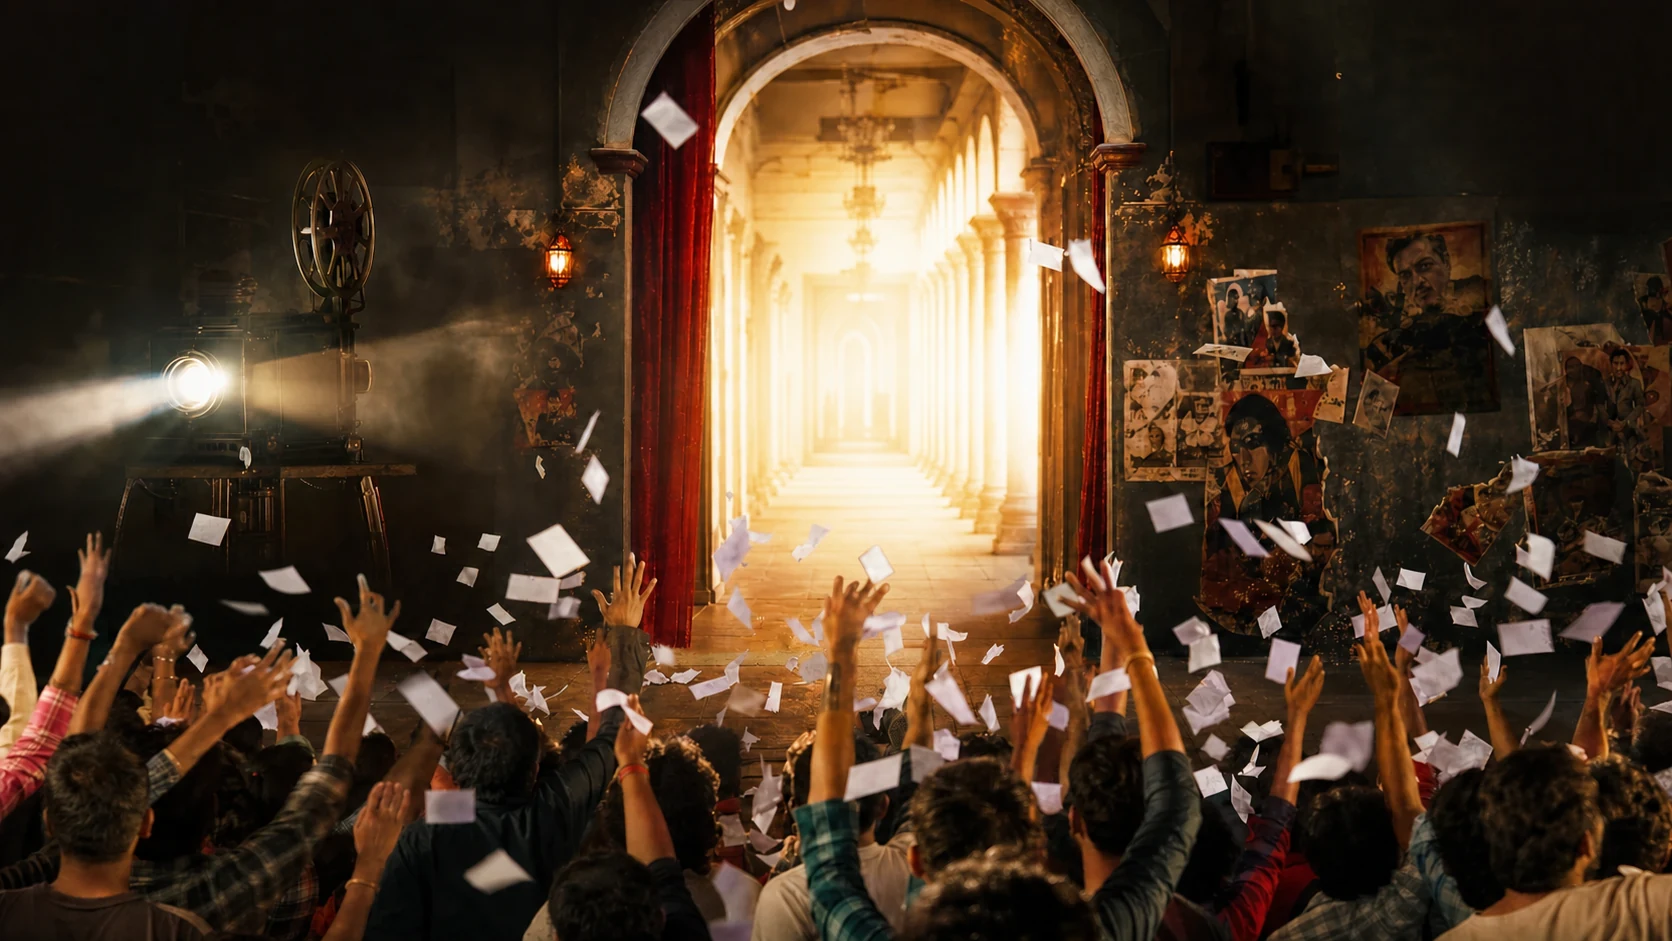
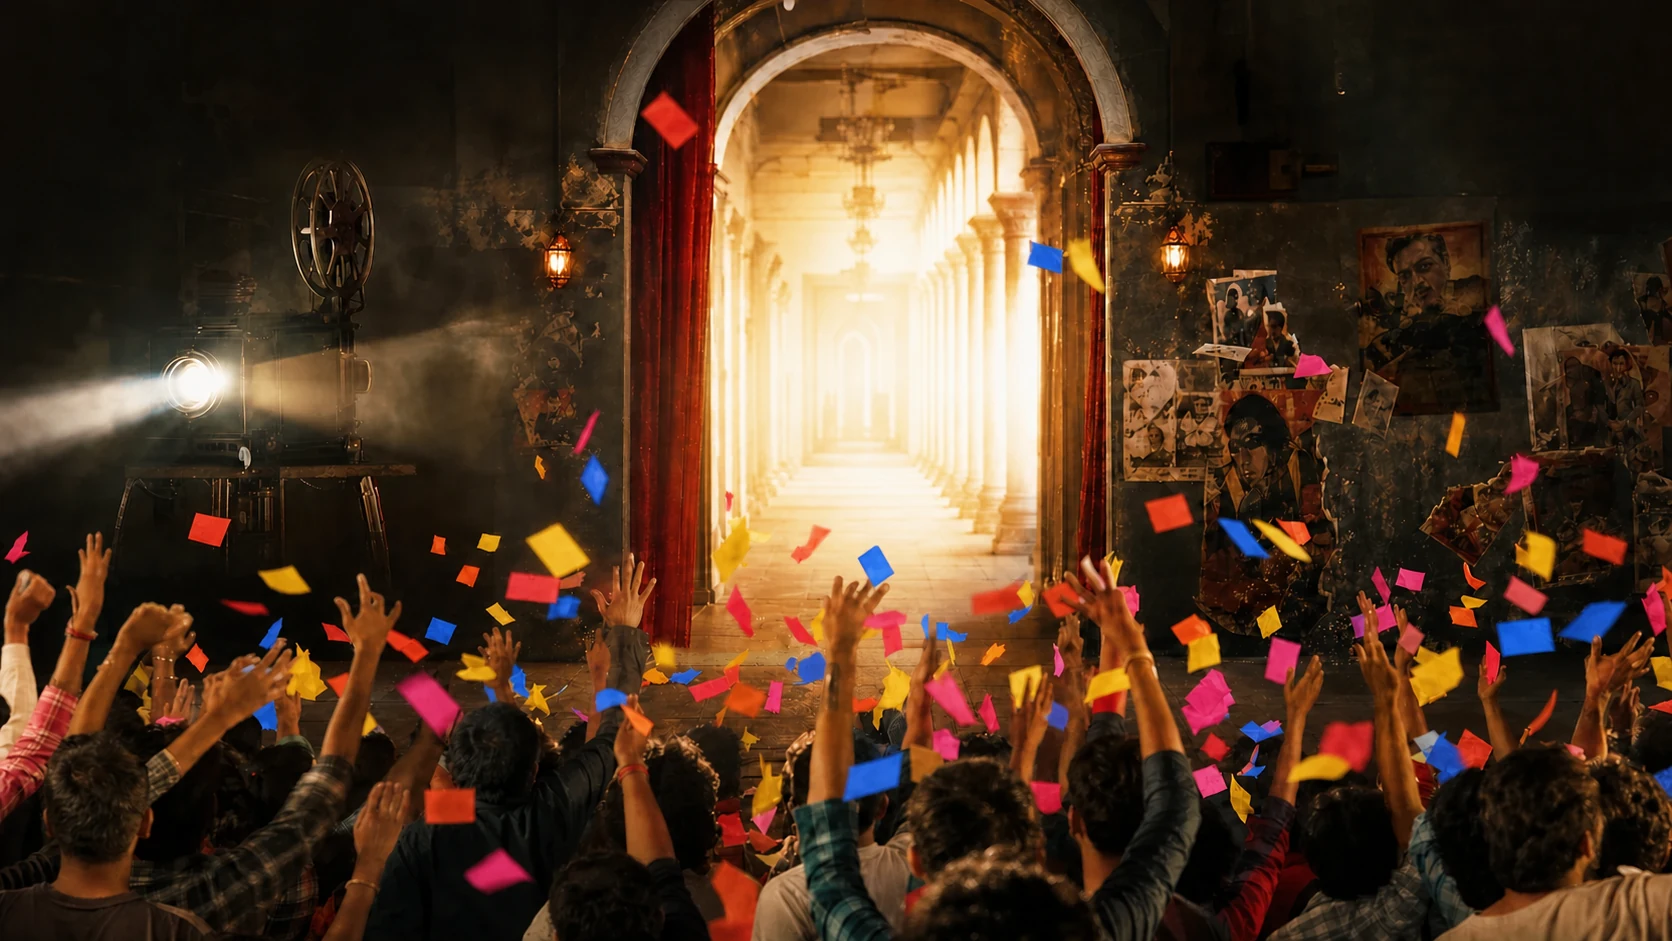
Use supplied Meher look and colored crowd papers

diff --git a/components/telugu-storefront.tsx b/components/telugu-storefront.tsx
@@ -69,7 +69,7 @@ const paper = Array.from({ length: 28 }, (_, index) => ({
   delay: (index % 8) * 0.08,
   rotate: (index * 53) % 180,
   drift: (index % 2 === 0 ? 1 : -1) * (25 + (index % 5) * 14),
-  color: ["#fff4da", "#f5cb45", "#ff3e91", "#1667ff", "#d83a2e"][index % 5],
+  color: ["#d83a2e", "#f5cb45", "#ff3e91", "#1667ff", "#78d63d"][index % 5],
 }))
 
 const heroPaper = Array.from({ length: 52 }, (_, index) => ({
@@ -80,7 +80,7 @@ const heroPaper = Array.from({ length: 52 }, (_, index) => ({
   drift: (index % 2 ? 1 : -1) * (35 + (index % 7) * 17),
   rotate: (index * 71) % 240,
   size: 8 + (index % 4) * 4,
-  color: ["#fff4da", "#ffffff", "#f5cb45", "#ff3e91"][index % 4],
+  color: ["#d83a2e", "#f5cb45", "#1667ff", "#ff3e91"][index % 4],
 }))
 
 const marquee = [
@@ -92,7 +92,7 @@ const marquee = [
   "FULL THEATRE ENERGY",
 ]
 
-function emitSound(name: "laugh" | "sting" | "cheer" | "whoosh" | "entry") {
+function emitSound(name: "laugh" | "sting" | "cheer" | "whoosh") {
   window.dispatchEvent(new CustomEvent("gtheta-sound", { detail: name }))
 }
 
@@ -206,55 +206,6 @@ function SoundController() {
       const name = (event as CustomEvent<string>).detail
       const now = context.currentTime
 
-      if (name === "entry") {
-        const notes = [
-          [1047, 0, 0.22],
-          [1397, 0.24, 0.18],
-          [1760, 0.44, 0.32],
-          [1480, 0.8, 0.2],
-          [2093, 1.04, 0.48],
-        ] as const
-
-        notes.forEach(([frequency, delay, duration], index) => {
-          const whistle = context.createOscillator()
-          const overtone = context.createOscillator()
-          const gain = context.createGain()
-          const overtoneGain = context.createGain()
-          whistle.type = "sine"
-          overtone.type = "sine"
-          whistle.frequency.setValueAtTime(frequency, now + delay)
-          whistle.frequency.exponentialRampToValueAtTime(
-            frequency * (index % 2 ? 0.96 : 1.035),
-            now + delay + duration,
-          )
-          overtone.frequency.setValueAtTime(frequency * 2.02, now + delay)
-          gain.gain.setValueAtTime(0.0001, now + delay)
-          gain.gain.exponentialRampToValueAtTime(0.115, now + delay + 0.025)
-          gain.gain.exponentialRampToValueAtTime(0.0001, now + delay + duration)
-          overtoneGain.gain.setValueAtTime(0.0001, now + delay)
-          overtoneGain.gain.exponentialRampToValueAtTime(0.018, now + delay + 0.02)
-          overtoneGain.gain.exponentialRampToValueAtTime(0.0001, now + delay + duration)
-          whistle.connect(gain).connect(context.destination)
-          overtone.connect(overtoneGain).connect(context.destination)
-          whistle.start(now + delay)
-          overtone.start(now + delay)
-          whistle.stop(now + delay + duration + 0.02)
-          overtone.stop(now + delay + duration + 0.02)
-        })
-
-        const thump = context.createOscillator()
-        const thumpGain = context.createGain()
-        thump.type = "sine"
-        thump.frequency.setValueAtTime(94, now)
-        thump.frequency.exponentialRampToValueAtTime(42, now + 0.5)
-        thumpGain.gain.setValueAtTime(0.16, now)
-        thumpGain.gain.exponentialRampToValueAtTime(0.0001, now + 0.55)
-        thump.connect(thumpGain).connect(context.destination)
-        thump.start()
-        thump.stop(now + 0.58)
-        return
-      }
-
       if (name === "laugh") {
         ;[0, 0.11, 0.23, 0.36].forEach((delay, index) => {
           const oscillator = context.createOscillator()
@@ -342,7 +293,6 @@ function SoundController() {
       setEnabled(true)
       window.setTimeout(() => {
         window.dispatchEvent(new Event("gtheta-replay-entry"))
-        emitSound("entry")
       }, 60)
     } catch {}
   }
@@ -550,7 +500,6 @@ function Hero() {
 
   const replay = () => {
     setScene((value) => value + 1)
-    emitSound("entry")
   }
 
   return (
@@ -607,7 +556,7 @@ function Hero() {
         >
           <Image
             src="/images/meher-walk.webp"
-            alt="A photorealistic parody portrait of Meher Ramesh walking into the theatre"
+            alt="Meher Ramesh walking into the theatre in a black suit with a prop handgun held down"
             fill
             priority
             sizes="(max-width: 640px) 270px, 35vw"
@@ -694,7 +643,7 @@ function Hero() {
               Crowd rating: papers never stop flying
             </p>
             <p className="mt-2 text-[9px] font-black uppercase tracking-[0.18em] text-[#f5cb45]">
-              Enable sound once for the automatic entry whistle
+              Doors and crowd run automatically
             </p>
           </div>
         </motion.div>
